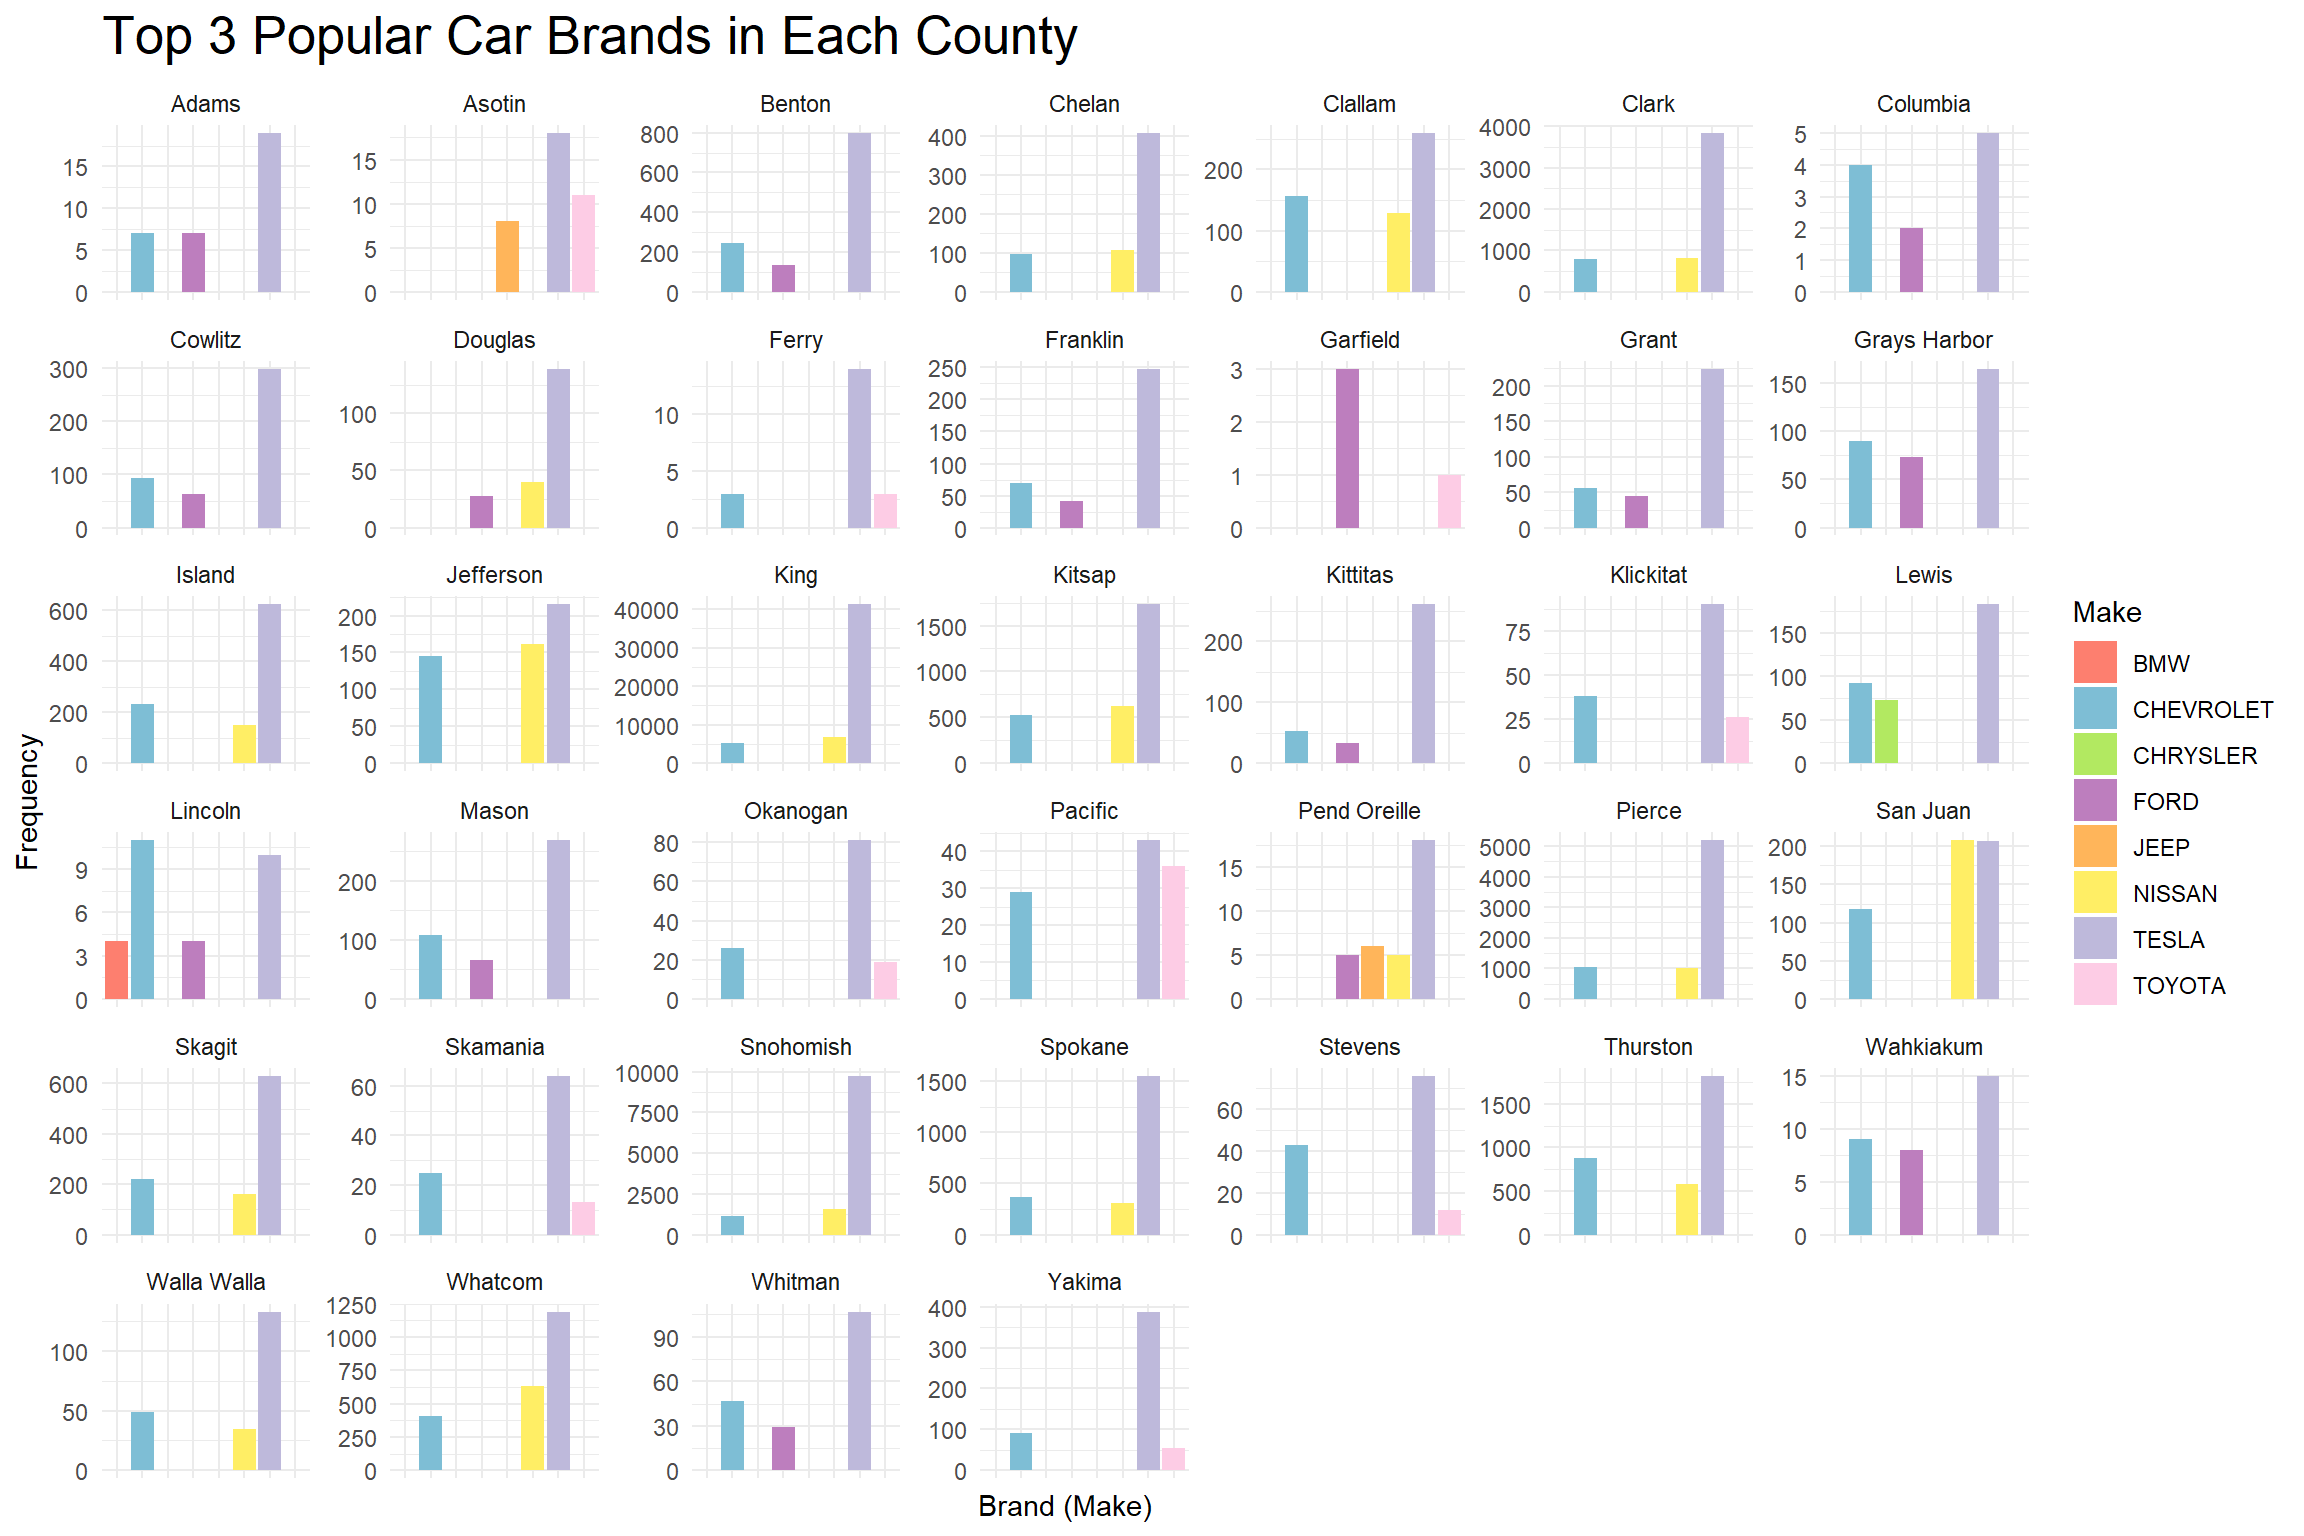
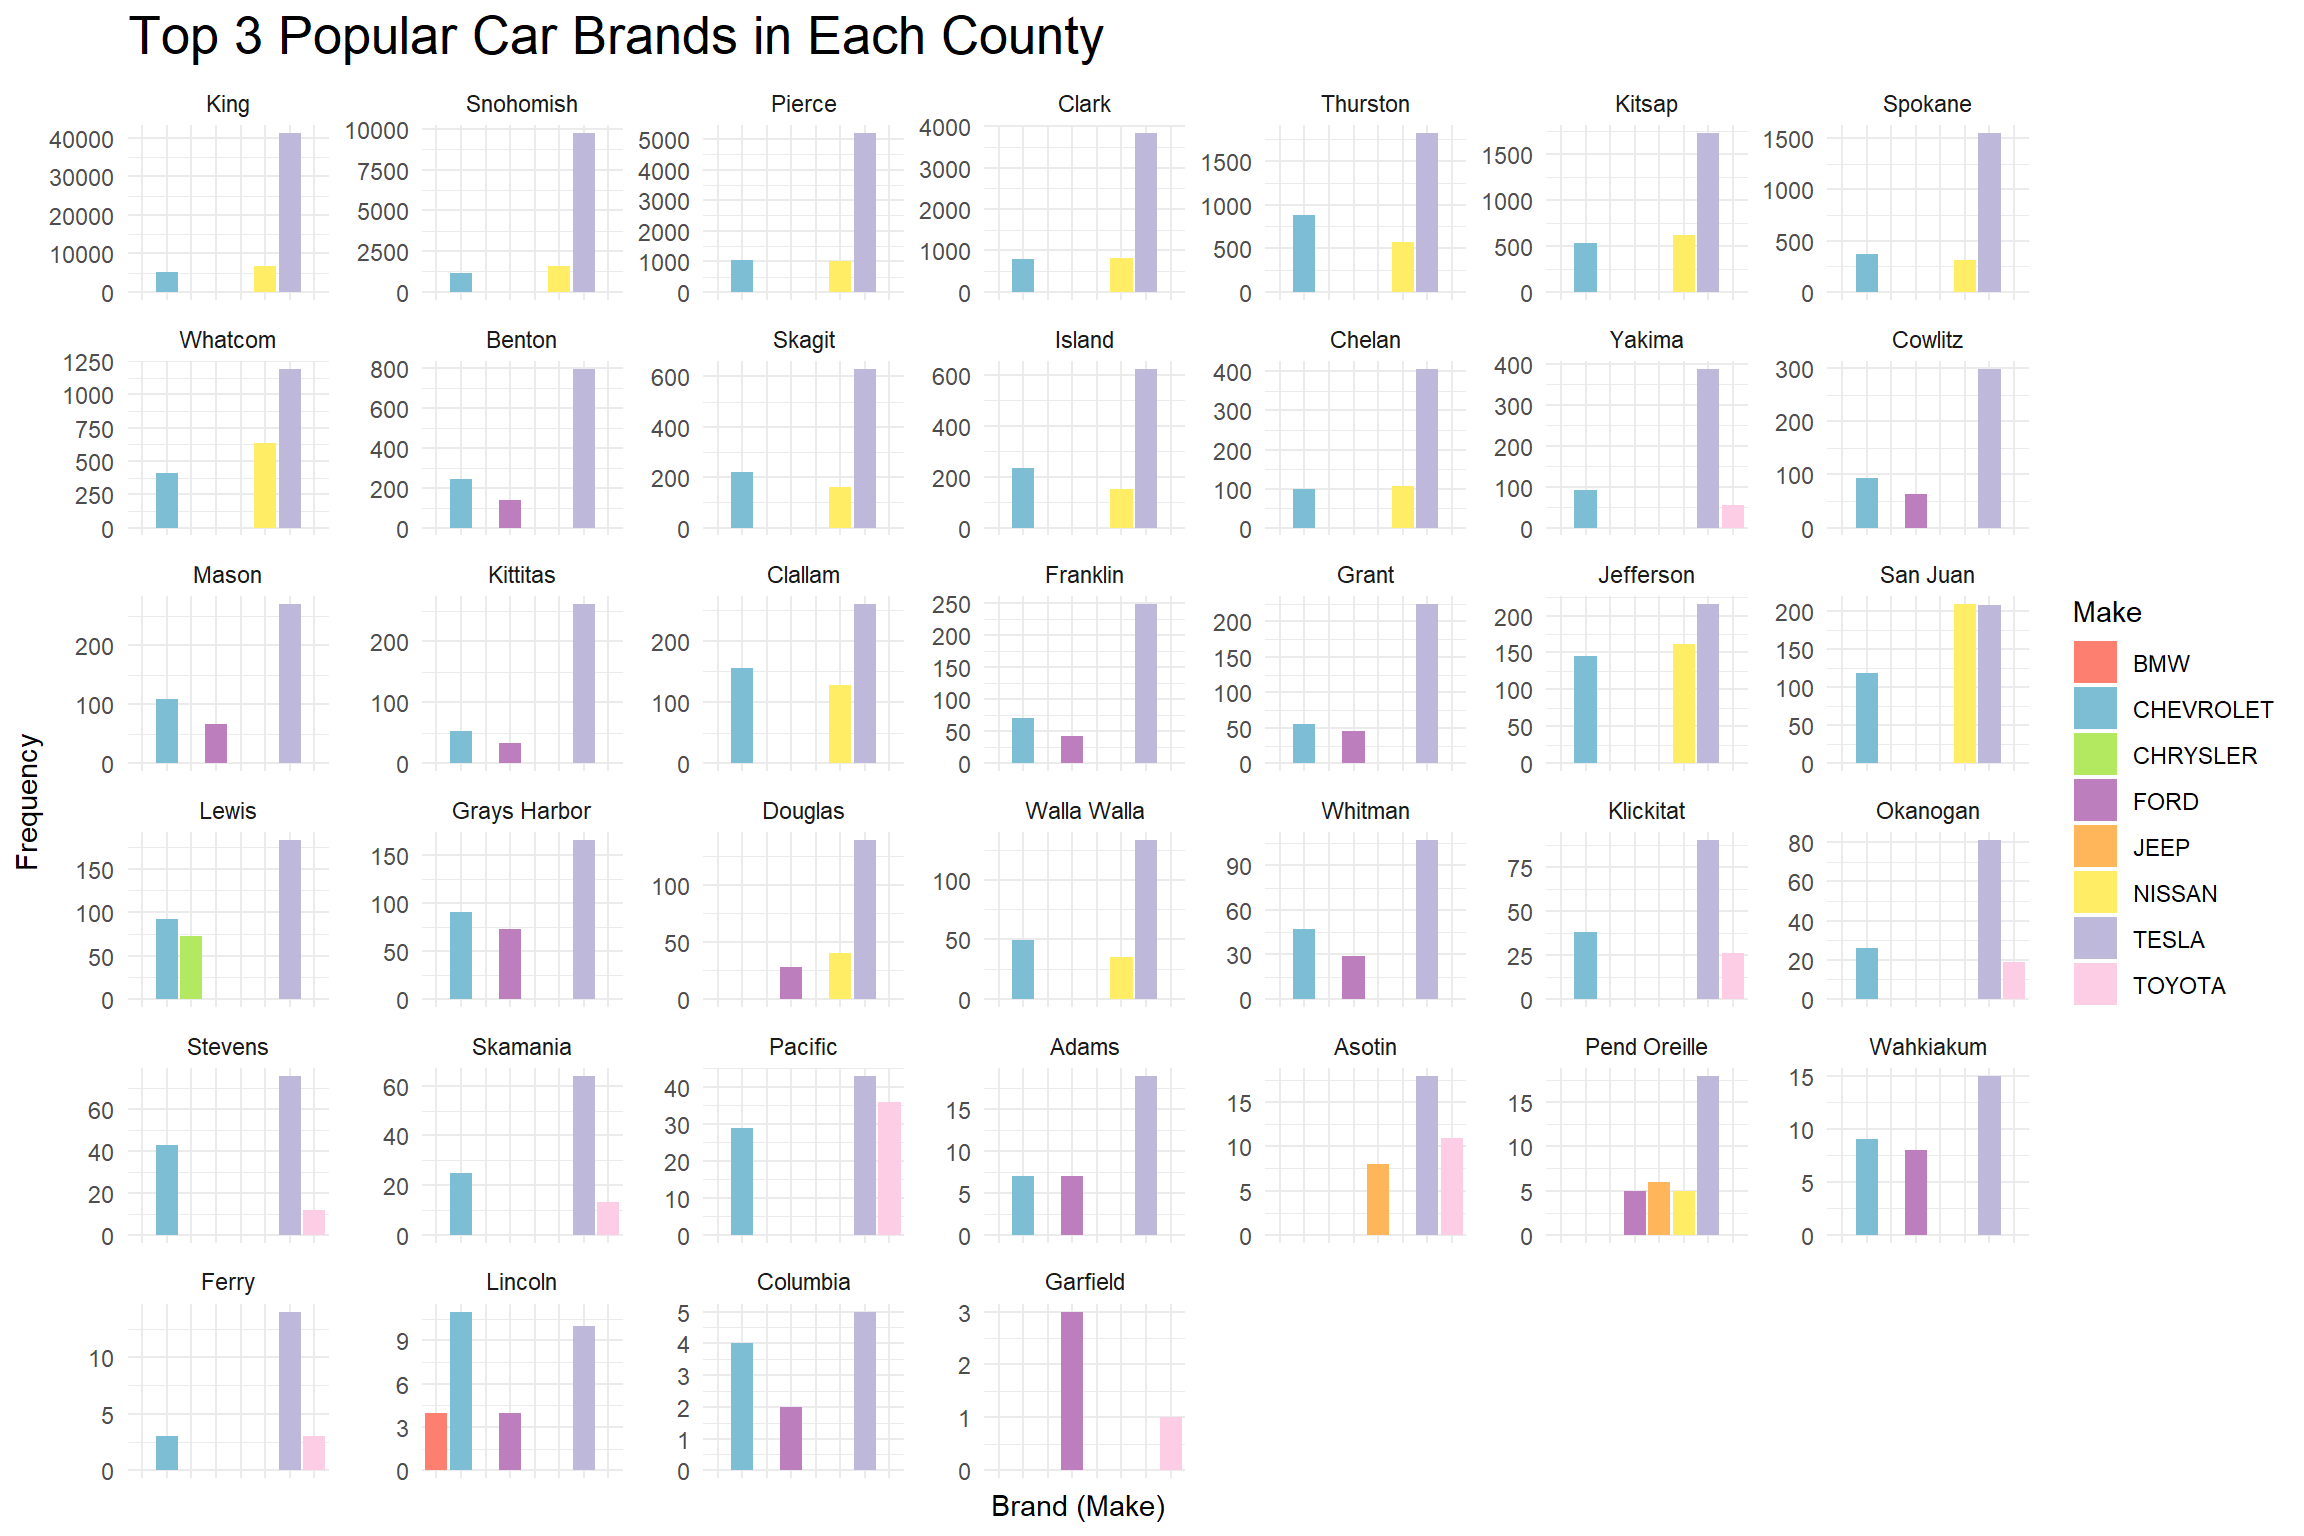
Updated Result 3.2.3

diff --git a/docs/results.html b/docs/results.html
@@ -438,16 +438,23 @@ pre > code.sourceCode > span > a:first-child::before { text-decoration: underlin
 <span id="cb8-6"><a href="#cb8-6" aria-hidden="true" tabindex="-1"></a>  <span class="fu">slice_max</span>(Count, <span class="at">n =</span> <span class="dv">3</span>) <span class="sc">%&gt;%</span></span>
 <span id="cb8-7"><a href="#cb8-7" aria-hidden="true" tabindex="-1"></a>  <span class="fu">ungroup</span>()</span>
 <span id="cb8-8"><a href="#cb8-8" aria-hidden="true" tabindex="-1"></a></span>
-<span id="cb8-9"><a href="#cb8-9" aria-hidden="true" tabindex="-1"></a><span class="fu">ggplot</span>(top_makes_by_county, <span class="fu">aes</span>(<span class="at">x =</span> Make, <span class="at">y =</span> Count, <span class="at">fill =</span> Make)) <span class="sc">+</span></span>
-<span id="cb8-10"><a href="#cb8-10" aria-hidden="true" tabindex="-1"></a>  <span class="fu">geom_bar</span>(<span class="at">stat =</span> <span class="st">"identity"</span>) <span class="sc">+</span></span>
-<span id="cb8-11"><a href="#cb8-11" aria-hidden="true" tabindex="-1"></a>  <span class="fu">scale_fill_manual</span>(<span class="at">values =</span> <span class="fu">c</span>(<span class="st">"#fd7f6f"</span>, <span class="st">"#7ebed5"</span>, <span class="st">"#b2e961"</span>, <span class="st">"#bd7ebe"</span>, <span class="st">"#ffb55a"</span>, <span class="st">"#ffee65"</span>, <span class="st">"#beb9db"</span>, <span class="st">"#fdcce5"</span>)) <span class="sc">+</span></span>
-<span id="cb8-12"><a href="#cb8-12" aria-hidden="true" tabindex="-1"></a>  <span class="fu">facet_wrap</span>(<span class="sc">~</span> County, <span class="at">scales =</span> <span class="st">"free_y"</span>) <span class="sc">+</span>  </span>
-<span id="cb8-13"><a href="#cb8-13" aria-hidden="true" tabindex="-1"></a>  <span class="fu">theme_minimal</span>() <span class="sc">+</span></span>
-<span id="cb8-14"><a href="#cb8-14" aria-hidden="true" tabindex="-1"></a>  <span class="fu">theme</span>(<span class="at">axis.text.x =</span> <span class="fu">element_blank</span>(),</span>
-<span id="cb8-15"><a href="#cb8-15" aria-hidden="true" tabindex="-1"></a>      <span class="at">plot.title =</span> <span class="fu">element_text</span>(<span class="at">size =</span> <span class="dv">20</span>)) <span class="sc">+</span> </span>
-<span id="cb8-16"><a href="#cb8-16" aria-hidden="true" tabindex="-1"></a>  <span class="fu">labs</span>(<span class="at">title =</span> <span class="st">"Top 3 Popular Car Brands in Each County"</span>,</span>
-<span id="cb8-17"><a href="#cb8-17" aria-hidden="true" tabindex="-1"></a>       <span class="at">x =</span> <span class="st">"Brand (Make)"</span>,</span>
-<span id="cb8-18"><a href="#cb8-18" aria-hidden="true" tabindex="-1"></a>       <span class="at">y =</span> <span class="st">"Frequency"</span>)</span></code><button title="Copy to Clipboard" class="code-copy-button"><i class="bi"></i></button></pre></div>
+<span id="cb8-9"><a href="#cb8-9" aria-hidden="true" tabindex="-1"></a>max_count_by_county <span class="ot">&lt;-</span> top_makes_by_county <span class="sc">%&gt;%</span></span>
+<span id="cb8-10"><a href="#cb8-10" aria-hidden="true" tabindex="-1"></a>  <span class="fu">group_by</span>(County) <span class="sc">%&gt;%</span></span>
+<span id="cb8-11"><a href="#cb8-11" aria-hidden="true" tabindex="-1"></a>  <span class="fu">summarise</span>(<span class="at">MaxCount =</span> <span class="fu">max</span>(Count)) <span class="sc">%&gt;%</span></span>
+<span id="cb8-12"><a href="#cb8-12" aria-hidden="true" tabindex="-1"></a>  <span class="fu">arrange</span>(<span class="fu">desc</span>(MaxCount))</span>
+<span id="cb8-13"><a href="#cb8-13" aria-hidden="true" tabindex="-1"></a></span>
+<span id="cb8-14"><a href="#cb8-14" aria-hidden="true" tabindex="-1"></a>top_makes_by_county<span class="sc">$</span>County <span class="ot">&lt;-</span> <span class="fu">factor</span>(top_makes_by_county<span class="sc">$</span>County, <span class="at">levels =</span> max_count_by_county<span class="sc">$</span>County)</span>
+<span id="cb8-15"><a href="#cb8-15" aria-hidden="true" tabindex="-1"></a></span>
+<span id="cb8-16"><a href="#cb8-16" aria-hidden="true" tabindex="-1"></a><span class="fu">ggplot</span>(top_makes_by_county, <span class="fu">aes</span>(<span class="at">x =</span> Make, <span class="at">y =</span> Count, <span class="at">fill =</span> Make)) <span class="sc">+</span></span>
+<span id="cb8-17"><a href="#cb8-17" aria-hidden="true" tabindex="-1"></a>  <span class="fu">geom_bar</span>(<span class="at">stat =</span> <span class="st">"identity"</span>) <span class="sc">+</span></span>
+<span id="cb8-18"><a href="#cb8-18" aria-hidden="true" tabindex="-1"></a>  <span class="fu">scale_fill_manual</span>(<span class="at">values =</span> <span class="fu">c</span>(<span class="st">"#fd7f6f"</span>, <span class="st">"#7ebed5"</span>, <span class="st">"#b2e961"</span>, <span class="st">"#bd7ebe"</span>, <span class="st">"#ffb55a"</span>, <span class="st">"#ffee65"</span>, <span class="st">"#beb9db"</span>, <span class="st">"#fdcce5"</span>)) <span class="sc">+</span></span>
+<span id="cb8-19"><a href="#cb8-19" aria-hidden="true" tabindex="-1"></a>  <span class="fu">facet_wrap</span>(<span class="sc">~</span> County, <span class="at">scales =</span> <span class="st">"free_y"</span>) <span class="sc">+</span>  </span>
+<span id="cb8-20"><a href="#cb8-20" aria-hidden="true" tabindex="-1"></a>  <span class="fu">theme_minimal</span>() <span class="sc">+</span></span>
+<span id="cb8-21"><a href="#cb8-21" aria-hidden="true" tabindex="-1"></a>  <span class="fu">theme</span>(<span class="at">axis.text.x =</span> <span class="fu">element_blank</span>(),</span>
+<span id="cb8-22"><a href="#cb8-22" aria-hidden="true" tabindex="-1"></a>      <span class="at">plot.title =</span> <span class="fu">element_text</span>(<span class="at">size =</span> <span class="dv">20</span>)) <span class="sc">+</span> </span>
+<span id="cb8-23"><a href="#cb8-23" aria-hidden="true" tabindex="-1"></a>  <span class="fu">labs</span>(<span class="at">title =</span> <span class="st">"Top 3 Popular Car Brands in Each County"</span>,</span>
+<span id="cb8-24"><a href="#cb8-24" aria-hidden="true" tabindex="-1"></a>       <span class="at">x =</span> <span class="st">"Brand (Make)"</span>,</span>
+<span id="cb8-25"><a href="#cb8-25" aria-hidden="true" tabindex="-1"></a>       <span class="at">y =</span> <span class="st">"Frequency"</span>)</span></code><button title="Copy to Clipboard" class="code-copy-button"><i class="bi"></i></button></pre></div>
 </details>
 <div class="cell-output-display">
 <p><img src="results_files/figure-html/unnamed-chunk-8-1.png" class="img-fluid" width="1152"></p>
